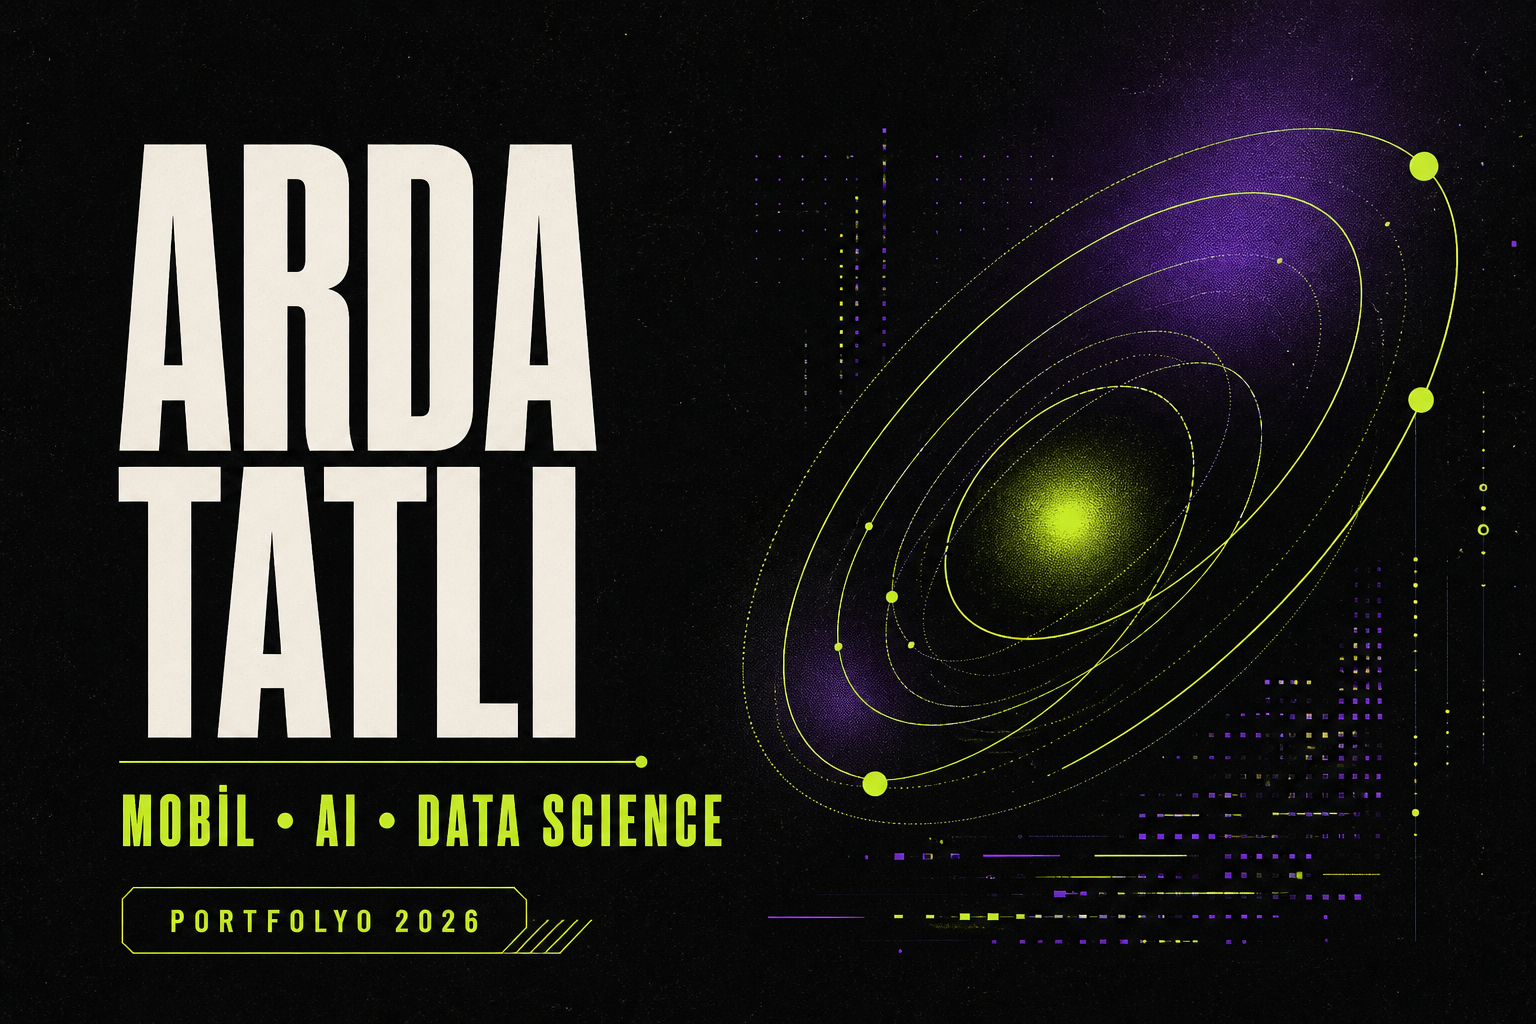
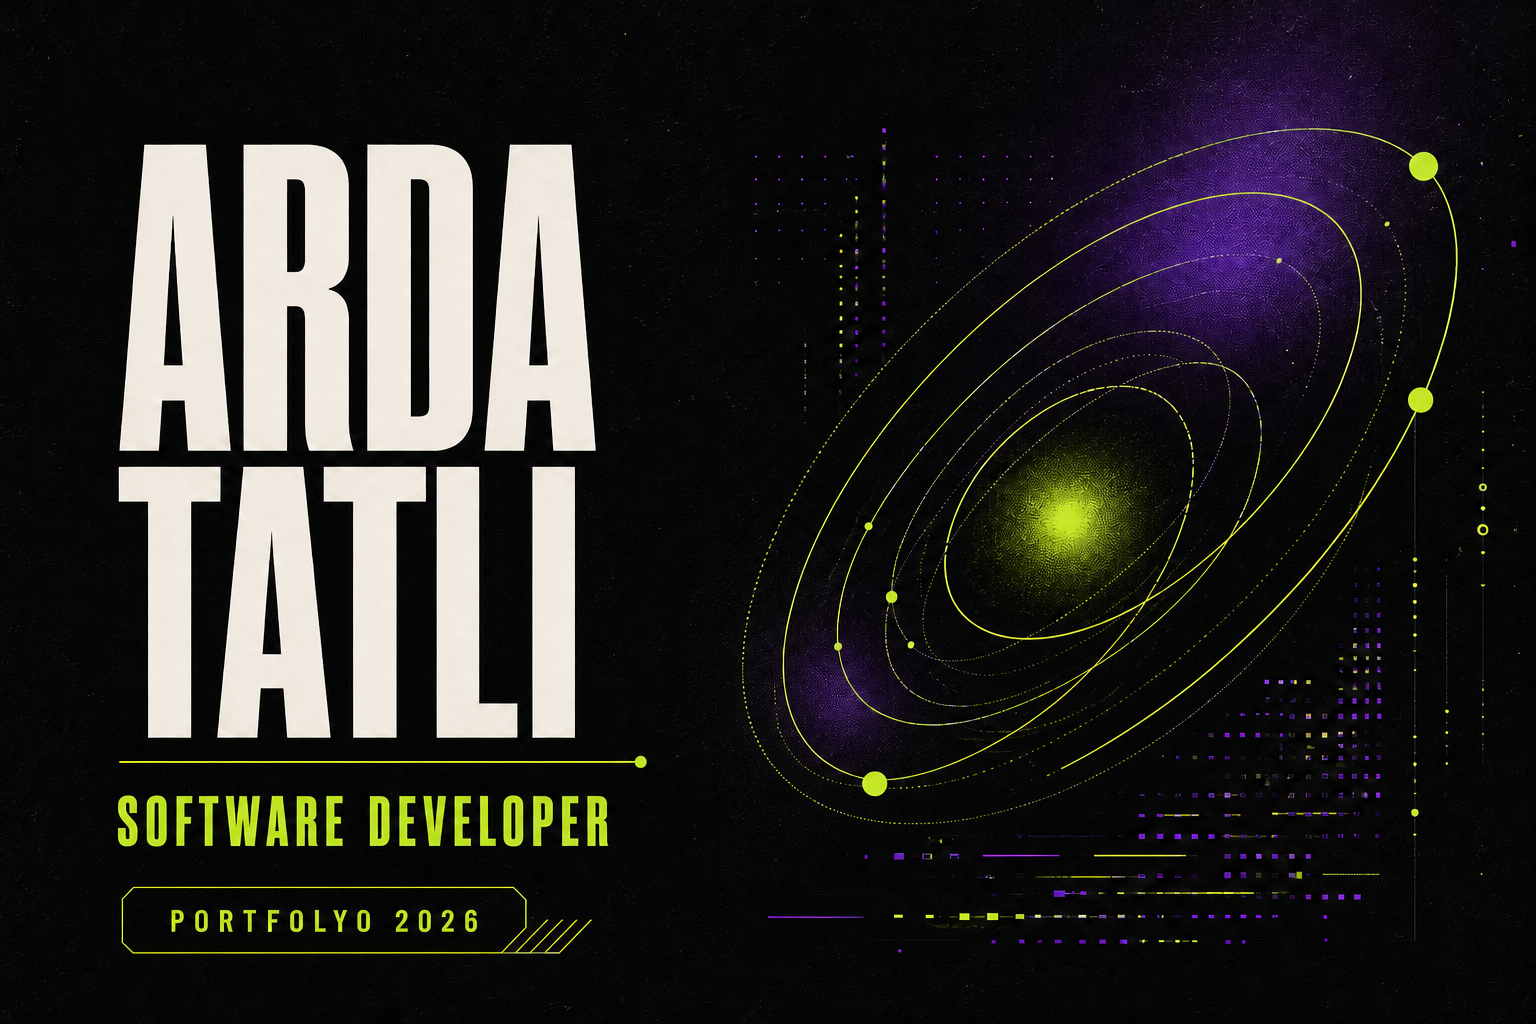
Update developer positioning

diff --git a/app/layout.tsx b/app/layout.tsx
@@ -13,10 +13,10 @@ export async function generateMetadata(): Promise<Metadata> {
   const image = `${protocol}://${host}/og.png`;
 
   return {
-    title: "Arda Tatlı — Mobil, AI & Data Science",
-    description: "Bilgisayar mühendisliği öğrencisi Arda Tatlı'nın kişisel portfolyosu. Mobil geliştirme, yapay zekâ ve veri bilimi projeleri.",
-    openGraph: { title: "Arda Tatlı", description: "Mobil • AI • Data Science", images: [{ url: image, width: 1536, height: 1024 }] },
-    twitter: { card: "summary_large_image", title: "Arda Tatlı", description: "Mobil • AI • Data Science", images: [image] },
+    title: "Arda Tatlı — Software Developer",
+    description: "Software Developer Arda Tatlı'nın kişisel portfolyosu ve yazılım projeleri.",
+    openGraph: { title: "Arda Tatlı", description: "Software Developer", images: [{ url: image, width: 1536, height: 1024 }] },
+    twitter: { card: "summary_large_image", title: "Arda Tatlı", description: "Software Developer", images: [image] },
   };
 }
 

diff --git a/app/page.tsx b/app/page.tsx
@@ -82,7 +82,7 @@ export default function Home() {
             dönüştürüyorum.
           </h1>
           <p className="hero-sub reveal delay-3">
-            Mobil, yapay zekâ ve veri bilimi alanlarında üreten<br className="desktop" /> bilgisayar mühendisliği öğrencisi.
+            Software Developer<br className="desktop" /> ve bilgisayar mühendisliği öğrencisi.
           </p>
           <div className="hero-actions reveal delay-4">
             <a className="primary-button" href="#projects">Projelerimi keşfet <b>↘</b></a>
